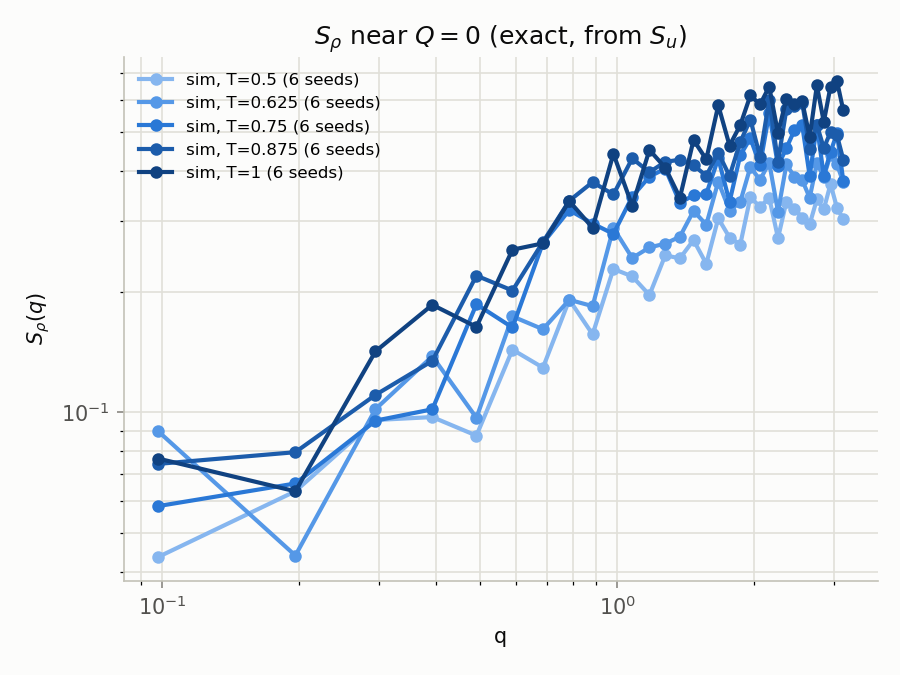
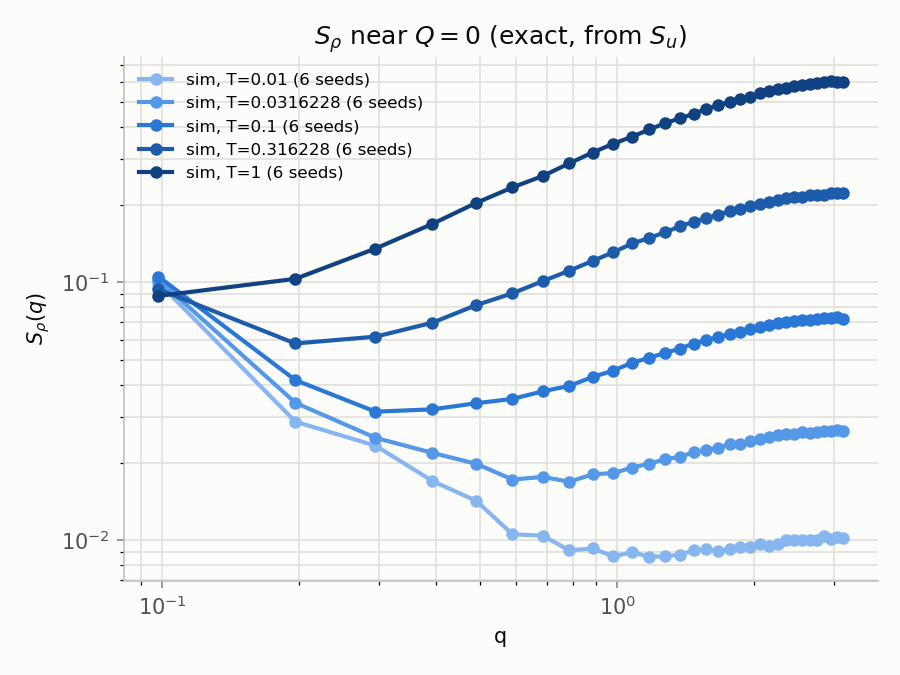
Remove misleading along-chain structure-factor "full zone" stitch, refresh examples
plot_structure_factor_full() (along-y) stitched an approximate small-q
branch onto the exact envelope-coherence curve at q=pi, same as the
transverse version used to. But unlike the transverse quantity,
compute_structure_factor()'s phase (qy*y + 2*pi*u) never multiplies u by
qy, so it's already exactly 2*pi-periodic in qy -- the existing k=0..Ny/2
data (plot_structure_factor.py) already covers everything physically
distinct, and the stitch was producing a real, visible discontinuity for
no reason. Removed rather than fixed.

Also refreshed plotting/examples/ with the geometric-ladder, time-averaged
demo run (T=0.01->1 crossover) instead of the earlier melted-only-regime
run, since it's now available and shows the along-chain/transverse Bragg
peak physics much more clearly.

Changed region(s): [[0.0622, 0.0933, 0.9956, 0.8711], [0.1244, 0.1867, 0.1556, 0.2178]]

diff --git a/plotting/lib.py b/plotting/lib.py
@@ -201,68 +201,18 @@ def plot_structure_factor(ax, directory: str, ny: int) -> bool:
     return True
 
 
-def plot_structure_factor_full(ax, directory: str, ny: int) -> bool:
-    """S_rho(q) across the whole first Brillouin zone, q in [0, 2*pi],
-    stitching the two branches above onto one q-axis instead of two
-    disconnected panels: a DFT on integer y only resolves q modulo 2*pi, so
-    the Q=0 branch's q in [0, pi] and the Bragg branch's q = 2*pi - qy in
-    [pi, 2*pi] (using S_rho(2pi+qy) = S_rho(2pi-qy)) tile the zone exactly
-    once, meeting at the zone boundary q = pi.
-
-    The two segments are NOT computed the same way -- the left one is the
-    linear-in-u approximation (exact only as q -> 0; already visibly
-    breaking down well before q = pi), the right one is the exact
-    nonlinear measurement -- so don't expect them to join smoothly. The
-    point of this plot is the vertical gap between them: how much
-    (or how little) crystalline coherence survives at q ~ 2pi relative to
-    the always-small compressional signal at q ~ 0."""
-    su_groups = find_replica_files(directory, "displacement_spectra")
-    rho_groups = find_replica_files(directory, "structure_factor")
-    if not su_groups or not rho_groups:
-        return False
-
-    corr_groups = find_replica_files(directory, "correlation")
-    dw_labeled = False
-
-    for color, T in zip(sequential_colors(len(su_groups)), su_groups):
-        if T not in rho_groups:
-            continue
-        su_data = load_averaged(su_groups[T], ncols=3)
-        q0, s0 = su_data[:, 1], 4.0 * ny * np.sin(su_data[:, 1] / 2.0)**2 * su_data[:, 2]
-
-        rho_data = load_averaged(rho_groups[T], ncols=3)
-        qy_rho, s_bragg = rho_data[:, 1], rho_data[:, 2]
-        q_bragg = 2.0 * np.pi - qy_rho
-        order = np.argsort(q_bragg)
-
-        ax.plot(q0, s0, "o-", color=color, linewidth=2, markersize=4,
-                 label=f"T={T:g} ({len(su_groups[T])} seeds)")
-        ax.plot(q_bragg[order], s_bragg[order], "o-", color=color, linewidth=2, markersize=4)
-
-        # Same Debye-Waller reconstruction as plot_structure_factor(), folded
-        # onto the q = 2pi - qy mapping used for the Bragg segment here.
-        if T in corr_groups:
-            by = load_averaged(corr_groups[T], ncols=3)[:, 1][:ny // 2]
-            n_half = len(by)
-            if n_half == ny // 2 and not np.isnan(by).any():
-                b_full = np.empty(ny)
-                b_full[:n_half] = by
-                b_full[n_half] = by[-1]
-                b_full[n_half + 1:] = by[1:][::-1]
-                s_dw = np.fft.fft(np.exp(-2.0 * np.pi**2 * b_full)).real
-                qy_dw = 2.0 * np.pi * np.arange(ny) / ny
-                mask = qy_dw <= qy_rho.max()
-                q_dw = 2.0 * np.pi - qy_dw[mask]
-                order_dw = np.argsort(q_dw)
-                ax.plot(q_dw[order_dw], s_dw[mask][order_dw], ":", color=CAT_VIOLET, linewidth=2,
-                         label=None if dw_labeled else "Debye-Waller estimate (all T)")
-                dw_labeled = True
-
-    ax.axvline(np.pi, color=BASELINE, linewidth=1, linestyle="--", zorder=0)
-    ax.set_xlabel("q")
-    ax.set_ylabel(r"$S_\rho(q)$")
-    ax.set_title(r"$S_\rho(q)$, full zone: $Q{=}0$ (approx) $\to$ Bragg peak $Q{=}2\pi$ (exact)")
-    return True
+# NOTE: there is deliberately no along-chain "plot_structure_factor_full"
+# (Q=0 branch stitched to the Bragg branch), unlike the transverse case
+# below. compute_structure_factor()'s phase is qy*y + 2*pi*u(x,y) -- qy
+# never multiplies u -- so, unlike the transverse quantity, this one IS
+# exactly 2*pi-periodic in qy (shifting qy by 2*pi leaves the phase
+# unchanged mod 2*pi since y is an integer). That means k=0..Ny/2
+# (what plot_structure_factor() already plots) covers all of the
+# physically distinct information; the rest of the zone is a mirror image,
+# not new data. An earlier version of this file stitched an approximate
+# small-q branch onto that already-complete curve anyway, which produced
+# a visible, spurious jump at q=pi -- removed rather than fixed, since
+# the stitch was never needed here in the first place.
 
 
 # ─────────────────────────────────────────────────────────────────────────

diff --git a/plotting/examples/README.md b/plotting/examples/README.md
@@ -1,9 +1,12 @@
 # Example output
 
 Generated by `plotting/plot_all.py` (and the individual `plot_*.py` scripts)
-from a real test run on this repo's SLURM cluster: a 5-replica temperature
-ladder (`-DNREPLICAS=5`, T = 0.5 → 1.0), 6 disorder seeds submitted via
-`slurm/run_array.slurm`, `Nx=32`, `Ny=64`. Regenerate with:
+from a real test run on this repo's SLURM cluster: a 5-replica **geometric**
+temperature ladder (`-DNREPLICAS=5`, $T = 0.01 \to 1$, i.e.
+$T_i = 0.01\cdot 100^{i/4}$ — see the README's replica-exchange section),
+6 disorder seeds submitted via `slurm/run_array.slurm`, `Nx=32`, `Ny=64`,
+each temperature time-averaged over ~900 samples during the run (not a
+single end-of-run snapshot). Regenerate with:
 
 ```bash
 python plotting/plot_all.py --dir <your results dir> --nx 32 --ny 64 --out plotting/examples/diagnostics.png
@@ -18,15 +21,15 @@ measure genuinely different physics: single-line roughness along `y` vs.
 whether the $N_x$ chains actually stay on a lattice (the real Bragg-glass
 question).
 
-The transverse $S_\rho(q)$ plots show this clearly: $S_\rho(q{=}0)$ is
-*always* exactly $N_x=32$ (particle-number conservation, disorder-independent),
-dropping immediately to $O(0.1)$ at the very next point — and at these
-parameters it never recovers by the time it reaches the actual Bragg peak
-$q=2\pi$ either (it plateaus at $O(1)$, not $N_x$), meaning the vortex
-lattice has essentially melted. Note $q=0$ and $q=2\pi$ are genuinely
-different points here, not the same one — see the README's Output Files
-section for why a real jump between them is expected physics, not a
-plotting bug.
+This run spans a wide enough temperature range to show the actual
+order-to-disorder crossover in one go: the transverse $S_\rho(q)$ plots
+show a clean, tall Bragg peak at the lowest temperature ($S_\rho(2\pi)\approx 9$,
+close to the perfect-order value $N_x=32$) that flattens out to
+$O(1)$ — fully melted — by $T=1$. $S_\rho(q{=}0)$ stays *exactly* $N_x=32$
+at every temperature regardless (particle-number conservation,
+disorder-independent) — note $q=0$ and $q=2\pi$ are genuinely different
+points, not the same one; see the README's Output Files section for why a
+real jump between them is expected physics, not a plotting bug.
 
 ## All three diagnostics (S_u along-chain, transverse S_rho full zone, B(r))
 
@@ -34,13 +37,14 @@ plotting bug.
 
 ## Along-chain (single-line roughness, y-axis)
 
-`plot_spectrum.py`, `plot_structure_factor_full.py`,
-`plot_structure_factor_q0.py`, `plot_structure_factor.py`:
+`plot_spectrum.py`, `plot_structure_factor_q0.py`, `plot_structure_factor.py`
+(the last one is already the complete picture for this quantity — see the
+README's note on why it needs no "full zone" stitched variant, unlike the
+transverse one below):
 
 ![Displacement spectrum](spectrum.png)
-![Density structure factor, full zone](structure_factor_full.png)
 ![Density structure factor near Q=0](structure_factor_q0.png)
-![Density structure factor near the Bragg peak](structure_factor.png)
+![Density structure factor, exact](structure_factor.png)
 
 ## Transverse (vortex-lattice translational order, x-axis)
 

diff --git a/README.md b/README.md
@@ -282,11 +282,16 @@ a regular lattice, or has it molten?
   stitched). It's smooth and self-averaging (unlike the exact curve near
   $q=2\pi$), being linear rather than exponentially sensitive in `u`.
   The along-chain analogues (`plot_structure_factor_q0.py` /
-  `plot_structure_factor.py` / `plot_structure_factor_full.py`) exist too,
-  for the (different!) single-line-roughness question — that one's $Q=0$
-  branch needs the analogous $N_y$ factor,
-  $S_\rho^{(Q=0)}(q) = 4N_y\sin^2(q/2)\,S_u(q)$, matching `ver.gnu`'s
-  original `q^2*S_u(q)*Ny` convention on the Displacement spectrum panel.
+  `plot_structure_factor.py`) exist too, for the (different!)
+  single-line-roughness question — that one's $Q=0$ branch needs the
+  analogous $N_y$ factor, $S_\rho^{(Q=0)}(q) = 4N_y\sin^2(q/2)\,S_u(q)$,
+  matching `ver.gnu`'s original `q^2*S_u(q)*Ny` convention on the
+  Displacement spectrum panel. There's no along-chain equivalent of
+  `plot_transverse_structure_factor_full.py`: unlike the transverse
+  quantity, `compute_structure_factor()`'s phase (`qy*y + 2*pi*u(x,y)`)
+  never multiplies `u` by `qy`, so it *is* exactly $2\pi$-periodic in
+  `qy` — `plot_structure_factor.py`'s `k = 0..Ny/2` already covers all the
+  physically distinct information, with no zone to stitch.
 
 #### Both axes together
 
@@ -345,9 +350,8 @@ python plotting/plot_all.py --nx 32 --ny 64 --dir . --out plots/diagnostics.png
 
 # Along-chain (single-line roughness, y-axis):
 python plotting/plot_spectrum.py --ny 64 --dir .                          # S_u(qy) only
-python plotting/plot_structure_factor_full.py --ny 64 --dir .             # S_rho(q), full zone (Q=0 approx -> Bragg peak)
-python plotting/plot_structure_factor_q0.py --ny 64 --dir .               # S_rho near Q=0 only (approx, from S_u)
-python plotting/plot_structure_factor.py --ny 64 --dir .                  # S_rho near Bragg peak only (exact) + DW estimate
+python plotting/plot_structure_factor_q0.py --ny 64 --dir .               # S_rho near Q=0 (approx, from S_u)
+python plotting/plot_structure_factor.py --ny 64 --dir .                  # S_rho(qy), exact -- already the full picture, see note above
 
 # Transverse (vortex-lattice translational order, x-axis -- the actual Bragg-glass question):
 python plotting/plot_transverse_structure_factor_full.py --nx 32 --dir .  # S_rho(q), full zone (exact) + both approximations
